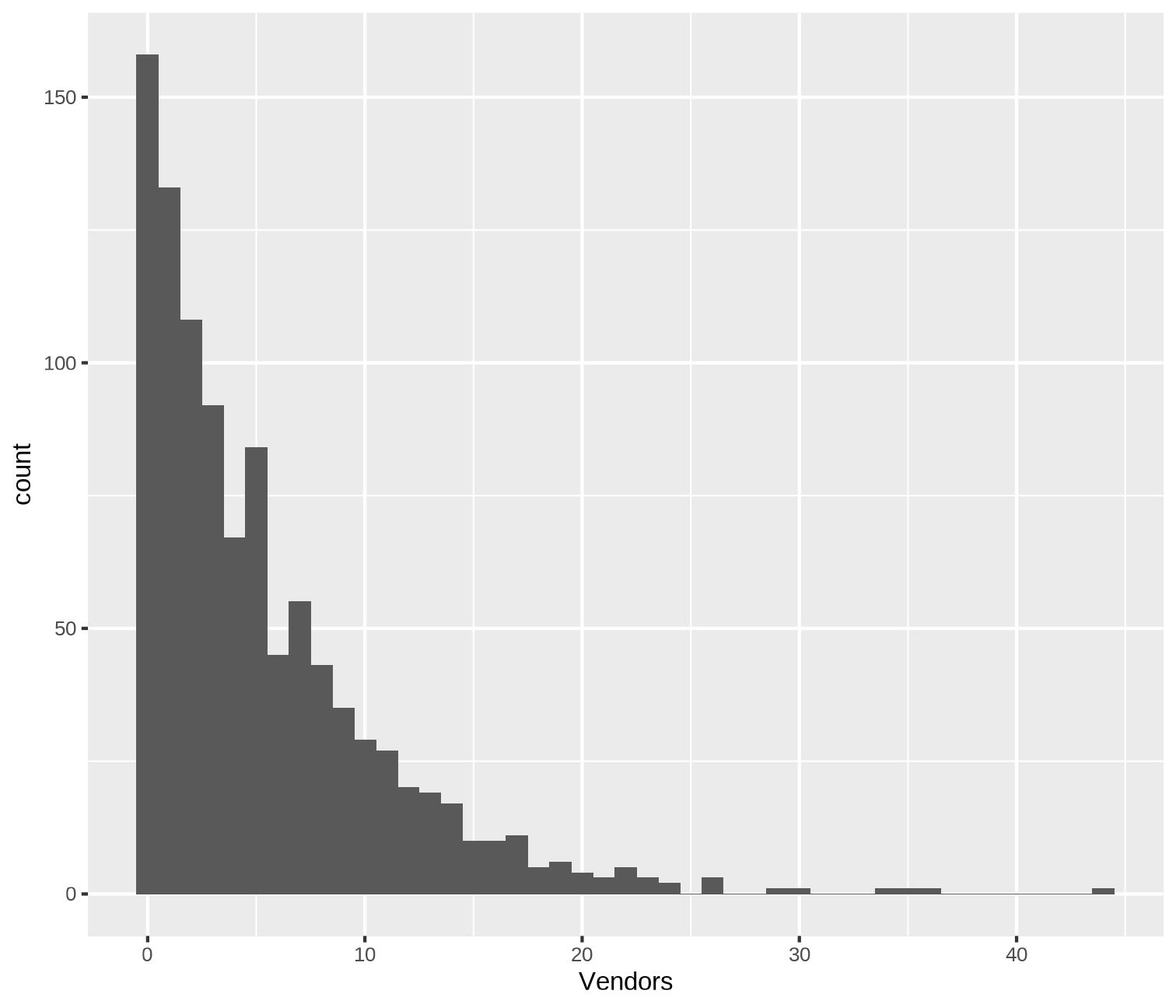
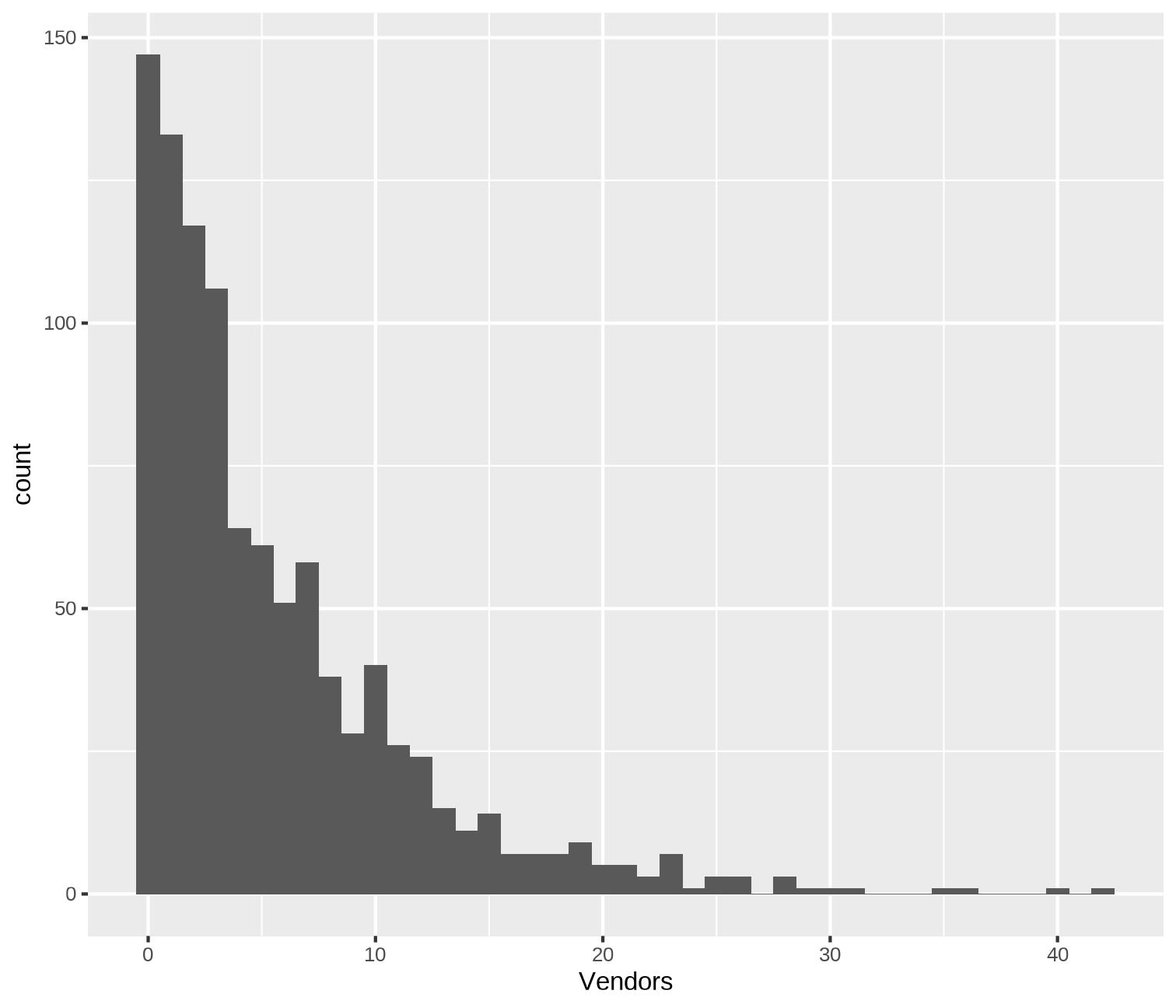
Update xaringan and talks

diff --git a/static/xaringan/probdist22/index.html b/static/xaringan/probdist22/index.html
@@ -4,7 +4,7 @@
     <title>Probability Distributions</title>
     <meta charset="utf-8" />
     <meta name="author" content="Robert W. Walker" />
-    <meta name="date" content="2022-02-03" />
+    <meta name="date" content="2022-02-10" />
     <script src="libs/header-attrs/header-attrs.js"></script>
     <script src="libs/htmlwidgets/htmlwidgets.js"></script>
     <script src="libs/plotly-binding/plotly.js"></script>
@@ -23,7 +23,7 @@ class: center, middle, inverse, title-slide
 # Probability Distributions
 ## Linking Probability and Data
 ### Robert W. Walker
-### 2022-02-03
+### 2022-02-10
 
 ---
 
@@ -233,12 +233,12 @@ head(DataF)
 
 ```
 ##   Hypo.Income   z.Income
-## 1    50533.88 -0.4386107
-## 2    62338.53  0.7734809
-## 3    66087.16  1.1583876
-## 4    46291.82 -0.8741825
-## 5    68650.94  1.4216345
-## 6    45132.50 -0.9932205
+## 1    65392.67  1.0944212
+## 2    66410.28  1.2001497
+## 3    50850.64 -0.4164775
+## 4    48698.79 -0.6400513
+## 5    39575.34 -1.5879669
+## 6    59910.34  0.5248149
 ```
 
 ```r
@@ -248,7 +248,7 @@ table(sign(DataF$z.Income))
 ```
 ## 
 ##  -1   1 
-## 514 486
+## 510 490
 ```
 
 ---
@@ -295,7 +295,7 @@ table(Jars &lt; 15.95 | Jars &gt; 16.05) # | captures or
 ```
 ## 
 ## FALSE  TRUE 
-##   504   496
+##   483   517
 ```
 
 ---
@@ -308,13 +308,13 @@ summary(scale(Jars))
 ```
 
 ```
-##        V1          
-##  Min.   :-1.74867  
-##  1st Qu.:-0.87609  
-##  Median :-0.01285  
-##  Mean   : 0.00000  
-##  3rd Qu.: 0.84864  
-##  Max.   : 1.76180
+##        V1           
+##  Min.   :-1.697719  
+##  1st Qu.:-0.874281  
+##  Median : 0.004284  
+##  Mean   : 0.000000  
+##  3rd Qu.: 0.880945  
+##  Max.   : 1.711710
 ```
 
 ```r
@@ -573,8 +573,8 @@ p &lt;- ggplotly(Plot1)
 p
 ```
 
-<div id="htmlwidget-58af9f2f3f05e8bfbd9e" style="width:504px;height:432px;" class="plotly html-widget"></div>
-<script type="application/json" data-for="htmlwidget-58af9f2f3f05e8bfbd9e">{"x":{"data":[{"x":[0,1,2,3,4,5,6,7,8,9,10,11,12,13,14,15,16,17,18,19,20,21,22,23,24,25,26,27,28,29,30,31,32,33,34,35,36,37,38,39,40,41,42,43,44,45,46,47,48,49,50,51,52,53,54,55,56,57,58,59,60,61,62,63,64,65,66,67,68,69,70,71,72,73,74,75,76,77,78,79,80,81,82,83,84,85,86,87,88,89,90,91,92,93,94,95,96,97,98,99,100,101,102,103,104,105,106,107,108,109,110,111,112,113,114,115,116,117,118,119,120,121,122,123,124,125,126,127,128,129,130,131,132,133,134,135,136,137,138,139,140,141,142,143,144,145,146,147,148,149,150,151,152,153,154,155,156,157,158,159,160,161,162,163,164,165,166,167,168,169,170,171,172,173,174,175,176,177,178,179,180,181,182,183,184,185,186,187,188,189,190,191,192,193,194,195,196,197,198,199,200],"y":[0,0,0,0,0,0,0,0,0,0,0,0,0.0001,0.0002,0.0004,0.001,0.0021,0.0043,0.0082,0.0149,0.0255,0.0415,0.0645,0.0959,0.1368,0.1876,0.248,0.3166,0.3914,0.4697,0.5485,0.6247,0.6958,0.7596,0.815,0.8613,0.8987,0.928,0.9502,0.9665,0.978,0.986,0.9913,0.9947,0.9969,0.9982,0.999,0.9995,0.9997,0.9998,0.9999,1,1,1,1,1,1,1,1,1,1,1,1,1,1,1,1,1,1,1,1,1,1,1,1,1,1,1,1,1,1,1,1,1,1,1,1,1,1,1,1,1,1,1,1,1,1,1,1,1,1,1,1,1,1,1,1,1,1,1,1,1,1,1,1,1,1,1,1,1,1,1,1,1,1,1,1,1,1,1,1,1,1,1,1,1,1,1,1,1,1,1,1,1,1,1,1,1,1,1,1,1,1,1,1,1,1,1,1,1,1,1,1,1,1,1,1,1,1,1,1,1,1,1,1,1,1,1,1,1,1,1,1,1,1,1,1,1,1,1,1,1,1,1,1,1,1,1,1,1,1],"text":["Potential.Refusers:   0<br />Prob: 0.0000","Potential.Refusers:   1<br />Prob: 0.0000","Potential.Refusers:   2<br />Prob: 0.0000","Potential.Refusers:   3<br />Prob: 0.0000","Potential.Refusers:   4<br />Prob: 0.0000","Potential.Refusers:   5<br />Prob: 0.0000","Potential.Refusers:   6<br />Prob: 0.0000","Potential.Refusers:   7<br />Prob: 0.0000","Potential.Refusers:   8<br />Prob: 0.0000","Potential.Refusers:   9<br />Prob: 0.0000","Potential.Refusers:  10<br />Prob: 0.0000","Potential.Refusers:  11<br />Prob: 0.0000","Potential.Refusers:  12<br />Prob: 0.0001","Potential.Refusers:  13<br />Prob: 0.0002","Potential.Refusers:  14<br />Prob: 0.0004","Potential.Refusers:  15<br />Prob: 0.0010","Potential.Refusers:  16<br />Prob: 0.0021","Potential.Refusers:  17<br />Prob: 0.0043","Potential.Refusers:  18<br />Prob: 0.0082","Potential.Refusers:  19<br />Prob: 0.0149","Potential.Refusers:  20<br />Prob: 0.0255","Potential.Refusers:  21<br />Prob: 0.0415","Potential.Refusers:  22<br />Prob: 0.0645","Potential.Refusers:  23<br />Prob: 0.0959","Potential.Refusers:  24<br />Prob: 0.1368","Potential.Refusers:  25<br />Prob: 0.1876","Potential.Refusers:  26<br />Prob: 0.2480","Potential.Refusers:  27<br />Prob: 0.3166","Potential.Refusers:  28<br />Prob: 0.3914","Potential.Refusers:  29<br />Prob: 0.4697","Potential.Refusers:  30<br />Prob: 0.5485","Potential.Refusers:  31<br />Prob: 0.6247","Potential.Refusers:  32<br />Prob: 0.6958","Potential.Refusers:  33<br />Prob: 0.7596","Potential.Refusers:  34<br />Prob: 0.8150","Potential.Refusers:  35<br />Prob: 0.8613","Potential.Refusers:  36<br />Prob: 0.8987","Potential.Refusers:  37<br />Prob: 0.9280","Potential.Refusers:  38<br />Prob: 0.9502","Potential.Refusers:  39<br />Prob: 0.9665","Potential.Refusers:  40<br />Prob: 0.9780","Potential.Refusers:  41<br />Prob: 0.9860","Potential.Refusers:  42<br />Prob: 0.9913","Potential.Refusers:  43<br />Prob: 0.9947","Potential.Refusers:  44<br />Prob: 0.9969","Potential.Refusers:  45<br />Prob: 0.9982","Potential.Refusers:  46<br />Prob: 0.9990","Potential.Refusers:  47<br />Prob: 0.9995","Potential.Refusers:  48<br />Prob: 0.9997","Potential.Refusers:  49<br />Prob: 0.9998","Potential.Refusers:  50<br />Prob: 0.9999","Potential.Refusers:  51<br />Prob: 1.0000","Potential.Refusers:  52<br />Prob: 1.0000","Potential.Refusers:  53<br />Prob: 1.0000","Potential.Refusers:  54<br />Prob: 1.0000","Potential.Refusers:  55<br />Prob: 1.0000","Potential.Refusers:  56<br />Prob: 1.0000","Potential.Refusers:  57<br />Prob: 1.0000","Potential.Refusers:  58<br />Prob: 1.0000","Potential.Refusers:  59<br />Prob: 1.0000","Potential.Refusers:  60<br />Prob: 1.0000","Potential.Refusers:  61<br />Prob: 1.0000","Potential.Refusers:  62<br />Prob: 1.0000","Potential.Refusers:  63<br />Prob: 1.0000","Potential.Refusers:  64<br />Prob: 1.0000","Potential.Refusers:  65<br />Prob: 1.0000","Potential.Refusers:  66<br />Prob: 1.0000","Potential.Refusers:  67<br />Prob: 1.0000","Potential.Refusers:  68<br />Prob: 1.0000","Potential.Refusers:  69<br />Prob: 1.0000","Potential.Refusers:  70<br />Prob: 1.0000","Potential.Refusers:  71<br />Prob: 1.0000","Potential.Refusers:  72<br />Prob: 1.0000","Potential.Refusers:  73<br />Prob: 1.0000","Potential.Refusers:  74<br />Prob: 1.0000","Potential.Refusers:  75<br />Prob: 1.0000","Potential.Refusers:  76<br />Prob: 1.0000","Potential.Refusers:  77<br />Prob: 1.0000","Potential.Refusers:  78<br />Prob: 1.0000","Potential.Refusers:  79<br />Prob: 1.0000","Potential.Refusers:  80<br />Prob: 1.0000","Potential.Refusers:  81<br />Prob: 1.0000","Potential.Refusers:  82<br />Prob: 1.0000","Potential.Refusers:  83<br />Prob: 1.0000","Potential.Refusers:  84<br />Prob: 1.0000","Potential.Refusers:  85<br />Prob: 1.0000","Potential.Refusers:  86<br />Prob: 1.0000","Potential.Refusers:  87<br />Prob: 1.0000","Potential.Refusers:  88<br />Prob: 1.0000","Potential.Refusers:  89<br />Prob: 1.0000","Potential.Refusers:  90<br />Prob: 1.0000","Potential.Refusers:  91<br />Prob: 1.0000","Potential.Refusers:  92<br />Prob: 1.0000","Potential.Refusers:  93<br />Prob: 1.0000","Potential.Refusers:  94<br />Prob: 1.0000","Potential.Refusers:  95<br />Prob: 1.0000","Potential.Refusers:  96<br />Prob: 1.0000","Potential.Refusers:  97<br />Prob: 1.0000","Potential.Refusers:  98<br />Prob: 1.0000","Potential.Refusers:  99<br />Prob: 1.0000","Potential.Refusers: 100<br />Prob: 1.0000","Potential.Refusers: 101<br />Prob: 1.0000","Potential.Refusers: 102<br />Prob: 1.0000","Potential.Refusers: 103<br />Prob: 1.0000","Potential.Refusers: 104<br />Prob: 1.0000","Potential.Refusers: 105<br />Prob: 1.0000","Potential.Refusers: 106<br />Prob: 1.0000","Potential.Refusers: 107<br />Prob: 1.0000","Potential.Refusers: 108<br />Prob: 1.0000","Potential.Refusers: 109<br />Prob: 1.0000","Potential.Refusers: 110<br />Prob: 1.0000","Potential.Refusers: 111<br />Prob: 1.0000","Potential.Refusers: 112<br />Prob: 1.0000","Potential.Refusers: 113<br />Prob: 1.0000","Potential.Refusers: 114<br />Prob: 1.0000","Potential.Refusers: 115<br />Prob: 1.0000","Potential.Refusers: 116<br />Prob: 1.0000","Potential.Refusers: 117<br />Prob: 1.0000","Potential.Refusers: 118<br />Prob: 1.0000","Potential.Refusers: 119<br />Prob: 1.0000","Potential.Refusers: 120<br />Prob: 1.0000","Potential.Refusers: 121<br />Prob: 1.0000","Potential.Refusers: 122<br />Prob: 1.0000","Potential.Refusers: 123<br />Prob: 1.0000","Potential.Refusers: 124<br />Prob: 1.0000","Potential.Refusers: 125<br />Prob: 1.0000","Potential.Refusers: 126<br />Prob: 1.0000","Potential.Refusers: 127<br />Prob: 1.0000","Potential.Refusers: 128<br />Prob: 1.0000","Potential.Refusers: 129<br />Prob: 1.0000","Potential.Refusers: 130<br />Prob: 1.0000","Potential.Refusers: 131<br />Prob: 1.0000","Potential.Refusers: 132<br />Prob: 1.0000","Potential.Refusers: 133<br />Prob: 1.0000","Potential.Refusers: 134<br />Prob: 1.0000","Potential.Refusers: 135<br />Prob: 1.0000","Potential.Refusers: 136<br />Prob: 1.0000","Potential.Refusers: 137<br />Prob: 1.0000","Potential.Refusers: 138<br />Prob: 1.0000","Potential.Refusers: 139<br />Prob: 1.0000","Potential.Refusers: 140<br />Prob: 1.0000","Potential.Refusers: 141<br />Prob: 1.0000","Potential.Refusers: 142<br />Prob: 1.0000","Potential.Refusers: 143<br />Prob: 1.0000","Potential.Refusers: 144<br />Prob: 1.0000","Potential.Refusers: 145<br />Prob: 1.0000","Potential.Refusers: 146<br />Prob: 1.0000","Potential.Refusers: 147<br />Prob: 1.0000","Potential.Refusers: 148<br />Prob: 1.0000","Potential.Refusers: 149<br />Prob: 1.0000","Potential.Refusers: 150<br />Prob: 1.0000","Potential.Refusers: 151<br />Prob: 1.0000","Potential.Refusers: 152<br />Prob: 1.0000","Potential.Refusers: 153<br />Prob: 1.0000","Potential.Refusers: 154<br />Prob: 1.0000","Potential.Refusers: 155<br />Prob: 1.0000","Potential.Refusers: 156<br />Prob: 1.0000","Potential.Refusers: 157<br />Prob: 1.0000","Potential.Refusers: 158<br />Prob: 1.0000","Potential.Refusers: 159<br />Prob: 1.0000","Potential.Refusers: 160<br />Prob: 1.0000","Potential.Refusers: 161<br />Prob: 1.0000","Potential.Refusers: 162<br />Prob: 1.0000","Potential.Refusers: 163<br />Prob: 1.0000","Potential.Refusers: 164<br />Prob: 1.0000","Potential.Refusers: 165<br />Prob: 1.0000","Potential.Refusers: 166<br />Prob: 1.0000","Potential.Refusers: 167<br />Prob: 1.0000","Potential.Refusers: 168<br />Prob: 1.0000","Potential.Refusers: 169<br />Prob: 1.0000","Potential.Refusers: 170<br />Prob: 1.0000","Potential.Refusers: 171<br />Prob: 1.0000","Potential.Refusers: 172<br />Prob: 1.0000","Potential.Refusers: 173<br />Prob: 1.0000","Potential.Refusers: 174<br />Prob: 1.0000","Potential.Refusers: 175<br />Prob: 1.0000","Potential.Refusers: 176<br />Prob: 1.0000","Potential.Refusers: 177<br />Prob: 1.0000","Potential.Refusers: 178<br />Prob: 1.0000","Potential.Refusers: 179<br />Prob: 1.0000","Potential.Refusers: 180<br />Prob: 1.0000","Potential.Refusers: 181<br />Prob: 1.0000","Potential.Refusers: 182<br />Prob: 1.0000","Potential.Refusers: 183<br />Prob: 1.0000","Potential.Refusers: 184<br />Prob: 1.0000","Potential.Refusers: 185<br />Prob: 1.0000","Potential.Refusers: 186<br />Prob: 1.0000","Potential.Refusers: 187<br />Prob: 1.0000","Potential.Refusers: 188<br />Prob: 1.0000","Potential.Refusers: 189<br />Prob: 1.0000","Potential.Refusers: 190<br />Prob: 1.0000","Potential.Refusers: 191<br />Prob: 1.0000","Potential.Refusers: 192<br />Prob: 1.0000","Potential.Refusers: 193<br />Prob: 1.0000","Potential.Refusers: 194<br />Prob: 1.0000","Potential.Refusers: 195<br />Prob: 1.0000","Potential.Refusers: 196<br />Prob: 1.0000","Potential.Refusers: 197<br />Prob: 1.0000","Potential.Refusers: 198<br />Prob: 1.0000","Potential.Refusers: 199<br />Prob: 1.0000","Potential.Refusers: 200<br />Prob: 1.0000"],"type":"scatter","mode":"markers","marker":{"autocolorscale":false,"color":"rgba(0,0,0,1)","opacity":1,"size":5.66929133858268,"symbol":"circle","line":{"width":1.88976377952756,"color":"rgba(0,0,0,1)"}},"hoveron":"points","showlegend":false,"xaxis":"x","yaxis":"y","hoverinfo":"text","frame":null}],"layout":{"margin":{"t":24.5235920852359,"r":7.30593607305936,"b":38.4779299847793,"l":48.9497716894977},"plot_bgcolor":"rgba(235,235,235,1)","paper_bgcolor":"rgba(255,255,255,1)","font":{"color":"rgba(0,0,0,1)","family":"","size":14.6118721461187},"xaxis":{"domain":[0,1],"automargin":true,"type":"linear","autorange":false,"range":[-10,210],"tickmode":"array","ticktext":["0","50","100","150","200"],"tickvals":[0,50,100,150,200],"categoryorder":"array","categoryarray":["0","50","100","150","200"],"nticks":null,"ticks":"outside","tickcolor":"rgba(51,51,51,1)","ticklen":3.65296803652968,"tickwidth":0.66417600664176,"showticklabels":true,"tickfont":{"color":"rgba(77,77,77,1)","family":"","size":11.689497716895},"tickangle":-0,"showline":false,"linecolor":null,"linewidth":0,"showgrid":true,"gridcolor":"rgba(255,255,255,1)","gridwidth":0.66417600664176,"zeroline":false,"anchor":"y","title":{"text":"Refusers","font":{"color":"rgba(0,0,0,1)","family":"","size":14.6118721461187}},"hoverformat":".2f"},"yaxis":{"domain":[0,1],"automargin":true,"type":"linear","autorange":false,"range":[-0.05,1.05],"tickmode":"array","ticktext":["0.00","0.25","0.50","0.75","1.00"],"tickvals":[0,0.25,0.5,0.75,1],"categoryorder":"array","categoryarray":["0.00","0.25","0.50","0.75","1.00"],"nticks":null,"ticks":"outside","tickcolor":"rgba(51,51,51,1)","ticklen":3.65296803652968,"tickwidth":0.66417600664176,"showticklabels":true,"tickfont":{"color":"rgba(77,77,77,1)","family":"","size":11.689497716895},"tickangle":-0,"showline":false,"linecolor":null,"linewidth":0,"showgrid":true,"gridcolor":"rgba(255,255,255,1)","gridwidth":0.66417600664176,"zeroline":false,"anchor":"x","title":{"text":"Prob. of x or Less Refusers","font":{"color":"rgba(0,0,0,1)","family":"","size":14.6118721461187}},"hoverformat":".2f"},"shapes":[{"type":"rect","fillcolor":null,"line":{"color":null,"width":0,"linetype":[]},"yref":"paper","xref":"paper","x0":0,"x1":1,"y0":0,"y1":1}],"showlegend":false,"legend":{"bgcolor":"rgba(255,255,255,1)","bordercolor":"transparent","borderwidth":1.88976377952756,"font":{"color":"rgba(0,0,0,1)","family":"","size":11.689497716895}},"hovermode":"closest","barmode":"relative"},"config":{"doubleClick":"reset","modeBarButtonsToAdd":["hoverclosest","hovercompare"],"showSendToCloud":false},"source":"A","attrs":{"cc3b421fcea4":{"x":{},"y":{},"type":"scatter"}},"cur_data":"cc3b421fcea4","visdat":{"cc3b421fcea4":["function (y) ","x"]},"highlight":{"on":"plotly_click","persistent":false,"dynamic":false,"selectize":false,"opacityDim":0.2,"selected":{"opacity":1},"debounce":0},"shinyEvents":["plotly_hover","plotly_click","plotly_selected","plotly_relayout","plotly_brushed","plotly_brushing","plotly_clickannotation","plotly_doubleclick","plotly_deselect","plotly_afterplot","plotly_sunburstclick"],"base_url":"https://plot.ly"},"evals":[],"jsHooks":[]}</script>
+<div id="htmlwidget-9aad61196ddbcd2e7f03" style="width:504px;height:432px;" class="plotly html-widget"></div>
+<script type="application/json" data-for="htmlwidget-9aad61196ddbcd2e7f03">{"x":{"data":[{"x":[0,1,2,3,4,5,6,7,8,9,10,11,12,13,14,15,16,17,18,19,20,21,22,23,24,25,26,27,28,29,30,31,32,33,34,35,36,37,38,39,40,41,42,43,44,45,46,47,48,49,50,51,52,53,54,55,56,57,58,59,60,61,62,63,64,65,66,67,68,69,70,71,72,73,74,75,76,77,78,79,80,81,82,83,84,85,86,87,88,89,90,91,92,93,94,95,96,97,98,99,100,101,102,103,104,105,106,107,108,109,110,111,112,113,114,115,116,117,118,119,120,121,122,123,124,125,126,127,128,129,130,131,132,133,134,135,136,137,138,139,140,141,142,143,144,145,146,147,148,149,150,151,152,153,154,155,156,157,158,159,160,161,162,163,164,165,166,167,168,169,170,171,172,173,174,175,176,177,178,179,180,181,182,183,184,185,186,187,188,189,190,191,192,193,194,195,196,197,198,199,200],"y":[0,0,0,0,0,0,0,0,0,0,0,0,0.0001,0.0002,0.0004,0.001,0.0021,0.0043,0.0082,0.0149,0.0255,0.0415,0.0645,0.0959,0.1368,0.1876,0.248,0.3166,0.3914,0.4697,0.5485,0.6247,0.6958,0.7596,0.815,0.8613,0.8987,0.928,0.9502,0.9665,0.978,0.986,0.9913,0.9947,0.9969,0.9982,0.999,0.9995,0.9997,0.9998,0.9999,1,1,1,1,1,1,1,1,1,1,1,1,1,1,1,1,1,1,1,1,1,1,1,1,1,1,1,1,1,1,1,1,1,1,1,1,1,1,1,1,1,1,1,1,1,1,1,1,1,1,1,1,1,1,1,1,1,1,1,1,1,1,1,1,1,1,1,1,1,1,1,1,1,1,1,1,1,1,1,1,1,1,1,1,1,1,1,1,1,1,1,1,1,1,1,1,1,1,1,1,1,1,1,1,1,1,1,1,1,1,1,1,1,1,1,1,1,1,1,1,1,1,1,1,1,1,1,1,1,1,1,1,1,1,1,1,1,1,1,1,1,1,1,1,1,1,1,1,1,1],"text":["Potential.Refusers:   0<br />Prob: 0.0000","Potential.Refusers:   1<br />Prob: 0.0000","Potential.Refusers:   2<br />Prob: 0.0000","Potential.Refusers:   3<br />Prob: 0.0000","Potential.Refusers:   4<br />Prob: 0.0000","Potential.Refusers:   5<br />Prob: 0.0000","Potential.Refusers:   6<br />Prob: 0.0000","Potential.Refusers:   7<br />Prob: 0.0000","Potential.Refusers:   8<br />Prob: 0.0000","Potential.Refusers:   9<br />Prob: 0.0000","Potential.Refusers:  10<br />Prob: 0.0000","Potential.Refusers:  11<br />Prob: 0.0000","Potential.Refusers:  12<br />Prob: 0.0001","Potential.Refusers:  13<br />Prob: 0.0002","Potential.Refusers:  14<br />Prob: 0.0004","Potential.Refusers:  15<br />Prob: 0.0010","Potential.Refusers:  16<br />Prob: 0.0021","Potential.Refusers:  17<br />Prob: 0.0043","Potential.Refusers:  18<br />Prob: 0.0082","Potential.Refusers:  19<br />Prob: 0.0149","Potential.Refusers:  20<br />Prob: 0.0255","Potential.Refusers:  21<br />Prob: 0.0415","Potential.Refusers:  22<br />Prob: 0.0645","Potential.Refusers:  23<br />Prob: 0.0959","Potential.Refusers:  24<br />Prob: 0.1368","Potential.Refusers:  25<br />Prob: 0.1876","Potential.Refusers:  26<br />Prob: 0.2480","Potential.Refusers:  27<br />Prob: 0.3166","Potential.Refusers:  28<br />Prob: 0.3914","Potential.Refusers:  29<br />Prob: 0.4697","Potential.Refusers:  30<br />Prob: 0.5485","Potential.Refusers:  31<br />Prob: 0.6247","Potential.Refusers:  32<br />Prob: 0.6958","Potential.Refusers:  33<br />Prob: 0.7596","Potential.Refusers:  34<br />Prob: 0.8150","Potential.Refusers:  35<br />Prob: 0.8613","Potential.Refusers:  36<br />Prob: 0.8987","Potential.Refusers:  37<br />Prob: 0.9280","Potential.Refusers:  38<br />Prob: 0.9502","Potential.Refusers:  39<br />Prob: 0.9665","Potential.Refusers:  40<br />Prob: 0.9780","Potential.Refusers:  41<br />Prob: 0.9860","Potential.Refusers:  42<br />Prob: 0.9913","Potential.Refusers:  43<br />Prob: 0.9947","Potential.Refusers:  44<br />Prob: 0.9969","Potential.Refusers:  45<br />Prob: 0.9982","Potential.Refusers:  46<br />Prob: 0.9990","Potential.Refusers:  47<br />Prob: 0.9995","Potential.Refusers:  48<br />Prob: 0.9997","Potential.Refusers:  49<br />Prob: 0.9998","Potential.Refusers:  50<br />Prob: 0.9999","Potential.Refusers:  51<br />Prob: 1.0000","Potential.Refusers:  52<br />Prob: 1.0000","Potential.Refusers:  53<br />Prob: 1.0000","Potential.Refusers:  54<br />Prob: 1.0000","Potential.Refusers:  55<br />Prob: 1.0000","Potential.Refusers:  56<br />Prob: 1.0000","Potential.Refusers:  57<br />Prob: 1.0000","Potential.Refusers:  58<br />Prob: 1.0000","Potential.Refusers:  59<br />Prob: 1.0000","Potential.Refusers:  60<br />Prob: 1.0000","Potential.Refusers:  61<br />Prob: 1.0000","Potential.Refusers:  62<br />Prob: 1.0000","Potential.Refusers:  63<br />Prob: 1.0000","Potential.Refusers:  64<br />Prob: 1.0000","Potential.Refusers:  65<br />Prob: 1.0000","Potential.Refusers:  66<br />Prob: 1.0000","Potential.Refusers:  67<br />Prob: 1.0000","Potential.Refusers:  68<br />Prob: 1.0000","Potential.Refusers:  69<br />Prob: 1.0000","Potential.Refusers:  70<br />Prob: 1.0000","Potential.Refusers:  71<br />Prob: 1.0000","Potential.Refusers:  72<br />Prob: 1.0000","Potential.Refusers:  73<br />Prob: 1.0000","Potential.Refusers:  74<br />Prob: 1.0000","Potential.Refusers:  75<br />Prob: 1.0000","Potential.Refusers:  76<br />Prob: 1.0000","Potential.Refusers:  77<br />Prob: 1.0000","Potential.Refusers:  78<br />Prob: 1.0000","Potential.Refusers:  79<br />Prob: 1.0000","Potential.Refusers:  80<br />Prob: 1.0000","Potential.Refusers:  81<br />Prob: 1.0000","Potential.Refusers:  82<br />Prob: 1.0000","Potential.Refusers:  83<br />Prob: 1.0000","Potential.Refusers:  84<br />Prob: 1.0000","Potential.Refusers:  85<br />Prob: 1.0000","Potential.Refusers:  86<br />Prob: 1.0000","Potential.Refusers:  87<br />Prob: 1.0000","Potential.Refusers:  88<br />Prob: 1.0000","Potential.Refusers:  89<br />Prob: 1.0000","Potential.Refusers:  90<br />Prob: 1.0000","Potential.Refusers:  91<br />Prob: 1.0000","Potential.Refusers:  92<br />Prob: 1.0000","Potential.Refusers:  93<br />Prob: 1.0000","Potential.Refusers:  94<br />Prob: 1.0000","Potential.Refusers:  95<br />Prob: 1.0000","Potential.Refusers:  96<br />Prob: 1.0000","Potential.Refusers:  97<br />Prob: 1.0000","Potential.Refusers:  98<br />Prob: 1.0000","Potential.Refusers:  99<br />Prob: 1.0000","Potential.Refusers: 100<br />Prob: 1.0000","Potential.Refusers: 101<br />Prob: 1.0000","Potential.Refusers: 102<br />Prob: 1.0000","Potential.Refusers: 103<br />Prob: 1.0000","Potential.Refusers: 104<br />Prob: 1.0000","Potential.Refusers: 105<br />Prob: 1.0000","Potential.Refusers: 106<br />Prob: 1.0000","Potential.Refusers: 107<br />Prob: 1.0000","Potential.Refusers: 108<br />Prob: 1.0000","Potential.Refusers: 109<br />Prob: 1.0000","Potential.Refusers: 110<br />Prob: 1.0000","Potential.Refusers: 111<br />Prob: 1.0000","Potential.Refusers: 112<br />Prob: 1.0000","Potential.Refusers: 113<br />Prob: 1.0000","Potential.Refusers: 114<br />Prob: 1.0000","Potential.Refusers: 115<br />Prob: 1.0000","Potential.Refusers: 116<br />Prob: 1.0000","Potential.Refusers: 117<br />Prob: 1.0000","Potential.Refusers: 118<br />Prob: 1.0000","Potential.Refusers: 119<br />Prob: 1.0000","Potential.Refusers: 120<br />Prob: 1.0000","Potential.Refusers: 121<br />Prob: 1.0000","Potential.Refusers: 122<br />Prob: 1.0000","Potential.Refusers: 123<br />Prob: 1.0000","Potential.Refusers: 124<br />Prob: 1.0000","Potential.Refusers: 125<br />Prob: 1.0000","Potential.Refusers: 126<br />Prob: 1.0000","Potential.Refusers: 127<br />Prob: 1.0000","Potential.Refusers: 128<br />Prob: 1.0000","Potential.Refusers: 129<br />Prob: 1.0000","Potential.Refusers: 130<br />Prob: 1.0000","Potential.Refusers: 131<br />Prob: 1.0000","Potential.Refusers: 132<br />Prob: 1.0000","Potential.Refusers: 133<br />Prob: 1.0000","Potential.Refusers: 134<br />Prob: 1.0000","Potential.Refusers: 135<br />Prob: 1.0000","Potential.Refusers: 136<br />Prob: 1.0000","Potential.Refusers: 137<br />Prob: 1.0000","Potential.Refusers: 138<br />Prob: 1.0000","Potential.Refusers: 139<br />Prob: 1.0000","Potential.Refusers: 140<br />Prob: 1.0000","Potential.Refusers: 141<br />Prob: 1.0000","Potential.Refusers: 142<br />Prob: 1.0000","Potential.Refusers: 143<br />Prob: 1.0000","Potential.Refusers: 144<br />Prob: 1.0000","Potential.Refusers: 145<br />Prob: 1.0000","Potential.Refusers: 146<br />Prob: 1.0000","Potential.Refusers: 147<br />Prob: 1.0000","Potential.Refusers: 148<br />Prob: 1.0000","Potential.Refusers: 149<br />Prob: 1.0000","Potential.Refusers: 150<br />Prob: 1.0000","Potential.Refusers: 151<br />Prob: 1.0000","Potential.Refusers: 152<br />Prob: 1.0000","Potential.Refusers: 153<br />Prob: 1.0000","Potential.Refusers: 154<br />Prob: 1.0000","Potential.Refusers: 155<br />Prob: 1.0000","Potential.Refusers: 156<br />Prob: 1.0000","Potential.Refusers: 157<br />Prob: 1.0000","Potential.Refusers: 158<br />Prob: 1.0000","Potential.Refusers: 159<br />Prob: 1.0000","Potential.Refusers: 160<br />Prob: 1.0000","Potential.Refusers: 161<br />Prob: 1.0000","Potential.Refusers: 162<br />Prob: 1.0000","Potential.Refusers: 163<br />Prob: 1.0000","Potential.Refusers: 164<br />Prob: 1.0000","Potential.Refusers: 165<br />Prob: 1.0000","Potential.Refusers: 166<br />Prob: 1.0000","Potential.Refusers: 167<br />Prob: 1.0000","Potential.Refusers: 168<br />Prob: 1.0000","Potential.Refusers: 169<br />Prob: 1.0000","Potential.Refusers: 170<br />Prob: 1.0000","Potential.Refusers: 171<br />Prob: 1.0000","Potential.Refusers: 172<br />Prob: 1.0000","Potential.Refusers: 173<br />Prob: 1.0000","Potential.Refusers: 174<br />Prob: 1.0000","Potential.Refusers: 175<br />Prob: 1.0000","Potential.Refusers: 176<br />Prob: 1.0000","Potential.Refusers: 177<br />Prob: 1.0000","Potential.Refusers: 178<br />Prob: 1.0000","Potential.Refusers: 179<br />Prob: 1.0000","Potential.Refusers: 180<br />Prob: 1.0000","Potential.Refusers: 181<br />Prob: 1.0000","Potential.Refusers: 182<br />Prob: 1.0000","Potential.Refusers: 183<br />Prob: 1.0000","Potential.Refusers: 184<br />Prob: 1.0000","Potential.Refusers: 185<br />Prob: 1.0000","Potential.Refusers: 186<br />Prob: 1.0000","Potential.Refusers: 187<br />Prob: 1.0000","Potential.Refusers: 188<br />Prob: 1.0000","Potential.Refusers: 189<br />Prob: 1.0000","Potential.Refusers: 190<br />Prob: 1.0000","Potential.Refusers: 191<br />Prob: 1.0000","Potential.Refusers: 192<br />Prob: 1.0000","Potential.Refusers: 193<br />Prob: 1.0000","Potential.Refusers: 194<br />Prob: 1.0000","Potential.Refusers: 195<br />Prob: 1.0000","Potential.Refusers: 196<br />Prob: 1.0000","Potential.Refusers: 197<br />Prob: 1.0000","Potential.Refusers: 198<br />Prob: 1.0000","Potential.Refusers: 199<br />Prob: 1.0000","Potential.Refusers: 200<br />Prob: 1.0000"],"type":"scatter","mode":"markers","marker":{"autocolorscale":false,"color":"rgba(0,0,0,1)","opacity":1,"size":5.66929133858268,"symbol":"circle","line":{"width":1.88976377952756,"color":"rgba(0,0,0,1)"}},"hoveron":"points","showlegend":false,"xaxis":"x","yaxis":"y","hoverinfo":"text","frame":null}],"layout":{"margin":{"t":24.5235920852359,"r":7.30593607305936,"b":38.4779299847793,"l":48.9497716894977},"plot_bgcolor":"rgba(235,235,235,1)","paper_bgcolor":"rgba(255,255,255,1)","font":{"color":"rgba(0,0,0,1)","family":"","size":14.6118721461187},"xaxis":{"domain":[0,1],"automargin":true,"type":"linear","autorange":false,"range":[-10,210],"tickmode":"array","ticktext":["0","50","100","150","200"],"tickvals":[0,50,100,150,200],"categoryorder":"array","categoryarray":["0","50","100","150","200"],"nticks":null,"ticks":"outside","tickcolor":"rgba(51,51,51,1)","ticklen":3.65296803652968,"tickwidth":0.66417600664176,"showticklabels":true,"tickfont":{"color":"rgba(77,77,77,1)","family":"","size":11.689497716895},"tickangle":-0,"showline":false,"linecolor":null,"linewidth":0,"showgrid":true,"gridcolor":"rgba(255,255,255,1)","gridwidth":0.66417600664176,"zeroline":false,"anchor":"y","title":{"text":"Refusers","font":{"color":"rgba(0,0,0,1)","family":"","size":14.6118721461187}},"hoverformat":".2f"},"yaxis":{"domain":[0,1],"automargin":true,"type":"linear","autorange":false,"range":[-0.05,1.05],"tickmode":"array","ticktext":["0.00","0.25","0.50","0.75","1.00"],"tickvals":[0,0.25,0.5,0.75,1],"categoryorder":"array","categoryarray":["0.00","0.25","0.50","0.75","1.00"],"nticks":null,"ticks":"outside","tickcolor":"rgba(51,51,51,1)","ticklen":3.65296803652968,"tickwidth":0.66417600664176,"showticklabels":true,"tickfont":{"color":"rgba(77,77,77,1)","family":"","size":11.689497716895},"tickangle":-0,"showline":false,"linecolor":null,"linewidth":0,"showgrid":true,"gridcolor":"rgba(255,255,255,1)","gridwidth":0.66417600664176,"zeroline":false,"anchor":"x","title":{"text":"Prob. of x or Less Refusers","font":{"color":"rgba(0,0,0,1)","family":"","size":14.6118721461187}},"hoverformat":".2f"},"shapes":[{"type":"rect","fillcolor":null,"line":{"color":null,"width":0,"linetype":[]},"yref":"paper","xref":"paper","x0":0,"x1":1,"y0":0,"y1":1}],"showlegend":false,"legend":{"bgcolor":"rgba(255,255,255,1)","bordercolor":"transparent","borderwidth":1.88976377952756,"font":{"color":"rgba(0,0,0,1)","family":"","size":11.689497716895}},"hovermode":"closest","barmode":"relative"},"config":{"doubleClick":"reset","modeBarButtonsToAdd":["hoverclosest","hovercompare"],"showSendToCloud":false},"source":"A","attrs":{"e9981b52938e":{"x":{},"y":{},"type":"scatter"}},"cur_data":"e9981b52938e","visdat":{"e9981b52938e":["function (y) ","x"]},"highlight":{"on":"plotly_click","persistent":false,"dynamic":false,"selectize":false,"opacityDim":0.2,"selected":{"opacity":1},"debounce":0},"shinyEvents":["plotly_hover","plotly_click","plotly_selected","plotly_relayout","plotly_brushed","plotly_brushing","plotly_clickannotation","plotly_doubleclick","plotly_deselect","plotly_afterplot","plotly_sunburstclick"],"base_url":"https://plot.ly"},"evals":[],"jsHooks":[]}</script>
 
 ---
 

diff --git a/content/talk/DADMP22W5/index.md b/content/talk/DADMP22W5/index.md
@@ -1,0 +1,50 @@
++++ 
+date = 2022-02-10 
+title = "DADM Week 5: Portland MBAP" 
+time_start = 2022-02-10T18:00:00
+time_end = 2021-02-10T22:00:00 
+abstract = "DADM Probability and Distributions"
+abstract_short = "Probability Distributions" 
+event = "MBAP PDX" 
+event_url = "<https://agsm.willamette.edu>" 
+location = "Portland, OR USA"
+
+# Is this a selected talk? (true/false)
+
+selected = true
+
+# Projects (optional).
+
+# Associate this talk with one or more of your projects.
+
+# Simply enter the filename (excluding '.md') of your project file in `content/project/`.
+
+projects = [""]
+
+# Links (optional).
+
+url_pdf = "" 
+url_slides = "<https://rww.science/xaringan/probdist22/index.html>"
+url_video = "" 
+url_code = ""
+
+# Does the content use math formatting?
+
+math = true
+
+# Does the content use source code highlighting?
+
+highlight = true
+
+# Featured image
+
+# Place your image in the `static/img/` folder and reference its filename below, e.g. `image = "example.jpg"`.
+
+[header] 
+image = "headers/wuagsm.jpg" 
+caption = ":smile:"
+
++++
+
+Slides in xaringan: 
++ [probability distributions](https://rww.science/xaringan/probdist22/index.html)
